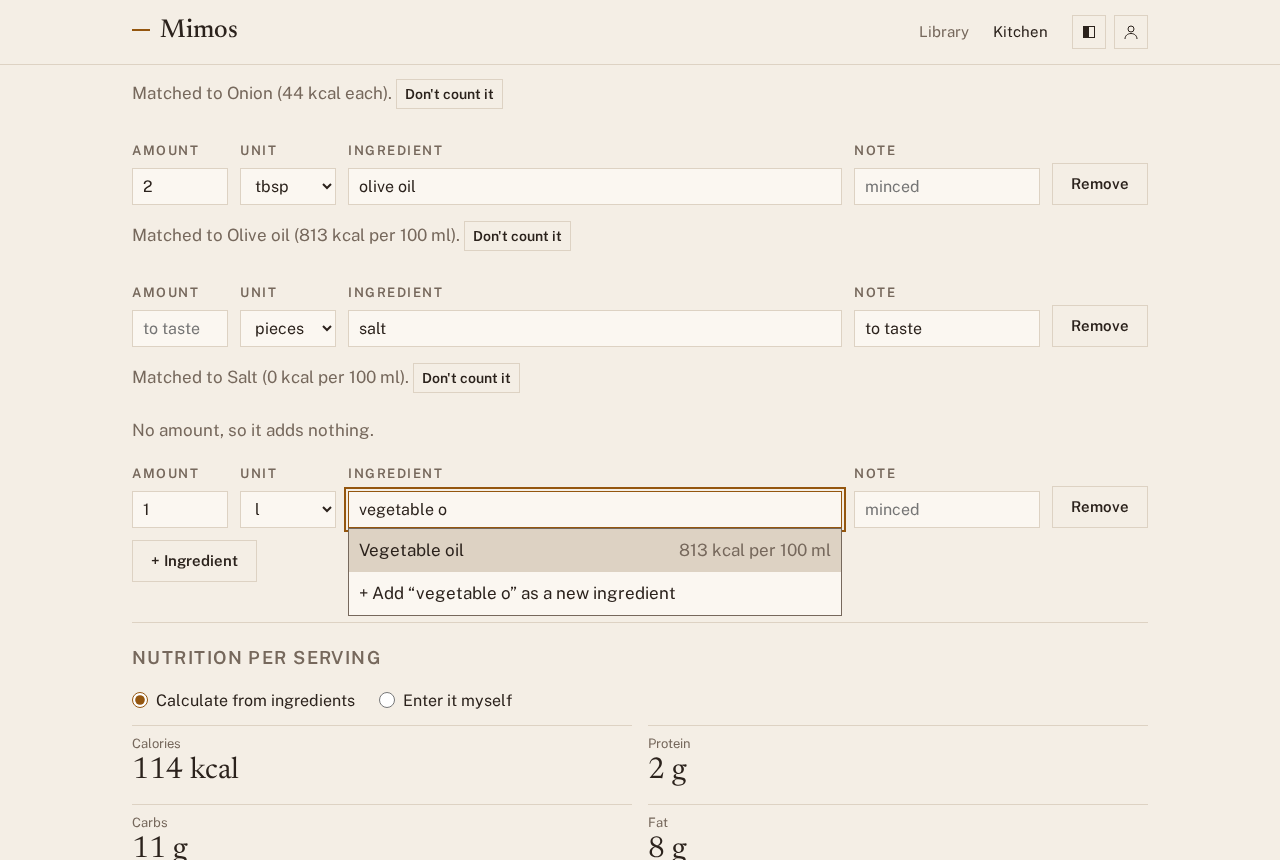
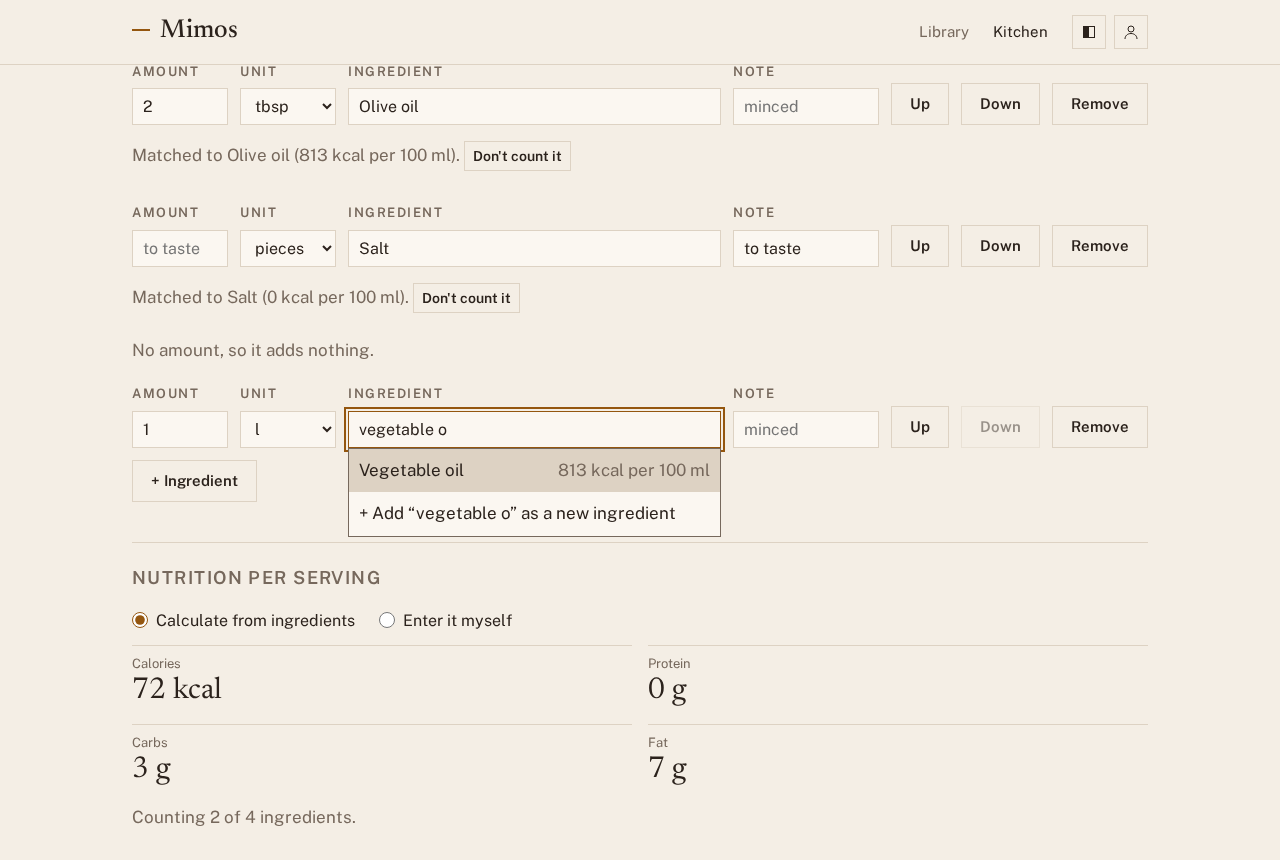
feat(web): reorder ingredients in the recipe form
Each ingredient line gets Up and Down buttons beside Remove. The API
already keeps lines in the order sent, so only the form changes. The
edit-recipe scenario moves a line and checks the saved order; the guide
and its form screenshot show the buttons.

diff --git a/tools/harness/scenarios/edit-recipe.spec.ts b/tools/harness/scenarios/edit-recipe.spec.ts
@@ -6,7 +6,8 @@ import { expect, test } from "./fixtures.ts";
  * Regression test for bugs found driving the form: a repeated tag was a 500
  * (duplicate `recipe_tag` row), the nutrition card hid carbs and fat unless
  * calories or protein were set, saving an edit left the page on the form,
- * and an ingredient could not go unmeasured (ADR-0007).
+ * and an ingredient could not go unmeasured (ADR-0007). Also moves an
+ * ingredient up and checks the saved order.
  */
 test("creates a recipe, then edits it back to its view", async ({ loggedInPage: page }) => {
   // Unique per run, so reruns against the same database never collide.
@@ -61,8 +62,22 @@ test("creates a recipe, then edits it back to its view", async ({ loggedInPage: 
     await expect(page.getByRole("heading", { name: "Edit recipe" })).toHaveCount(0);
   });
 
-  await test.step("the edit survives a reload", async () => {
+  await test.step("move an ingredient up and save the new order", async () => {
+    await page.getByRole("button", { name: "Edit" }).click();
+    await expect(page.getByRole("button", { name: "Move ingredient 1 up" })).toBeDisabled();
+    await expect(page.getByRole("button", { name: "Move ingredient 2 down" })).toBeDisabled();
+    await page.getByRole("button", { name: "Move ingredient 2 up" }).click();
+    await expect(page.getByLabel("Ingredient 1 name")).toHaveValue("salt, to taste");
+    await expect(page.getByLabel("Ingredient 2 amount")).toHaveValue("1");
+    await page.getByRole("button", { name: "Save changes" }).click();
+    await expect(formError.or(recipe.getByRole("heading", { name: `${title} (edited)`, level: 1 }))).toBeVisible();
+    expect(await formError.allInnerTexts(), "the form reported an error").toEqual([]);
+  });
+
+  await test.step("the edit and the new order survive a reload", async () => {
     await page.reload();
     await expect(recipe.getByRole("heading", { name: `${title} (edited)`, level: 1 })).toBeVisible();
+    await expect(recipe.locator(".ingredients li").first()).toHaveText("salt, to taste");
+    await expect(recipe.locator(".ingredients li").nth(1)).toContainText("beans");
   });
 });

diff --git a/apps/web/src/components/recipe-form.tsx b/apps/web/src/components/recipe-form.tsx
@@ -309,6 +309,24 @@ export function RecipeForm({
               aria-label={`Ingredient ${index + 1} note`}
             />
           </label>
+          <button
+            type="button"
+            className="button secondary"
+            onClick={() => moveIngredient(index, index - 1)}
+            disabled={index === 0}
+            aria-label={`Move ingredient ${index + 1} up`}
+          >
+            Up
+          </button>
+          <button
+            type="button"
+            className="button secondary"
+            onClick={() => moveIngredient(index, index + 1)}
+            disabled={index === values.ingredients.length - 1}
+            aria-label={`Move ingredient ${index + 1} down`}
+          >
+            Down
+          </button>
           <button type="button" className="button secondary" onClick={() => removeRow("ingredient", index)}>
             Remove
           </button>
@@ -422,6 +440,18 @@ export function RecipeForm({
 
   function replaceRow(index: number, next: IngredientRow) {
     set({ ingredients: values.ingredients.map((row, i) => (i === index ? next : row)) });
+  }
+
+  function moveIngredient(from: number, to: number) {
+    const ingredients = [...values.ingredients];
+    const [row] = ingredients.splice(from, 1);
+    ingredients.splice(to, 0, row);
+    set({ ingredients });
+    if (adding?.index === from) {
+      setAdding({ ...adding, index: to });
+    } else if (adding?.index === to) {
+      setAdding({ ...adding, index: from });
+    }
   }
 
   function removeRow(kind: "ingredient" | "step", index: number) {

diff --git a/docs/guide/recipes.md b/docs/guide/recipes.md
@@ -45,7 +45,9 @@ above the description. Scroll the row sideways to see them all.
    ingredient** and copy its calories, protein, carbs, and fat from the
    label. It's saved as your household's own: only your household sees
    it, and you can use it in any of your recipes. Under each ingredient, Mimos says what it matched;
-   choose **Don't count it** if the match is wrong.
+   choose **Don't count it** if the match is wrong. Choose **Up** or
+   **Down** on a line to move it in the list, and **Remove** to take it
+   out.
 5. Under **Nutrition per serving**, leave **Calculate from ingredients**
    chosen to have Mimos work it out, or choose **Enter it myself** to type
    it in. Mimos uses it for your [food log](log.md).
